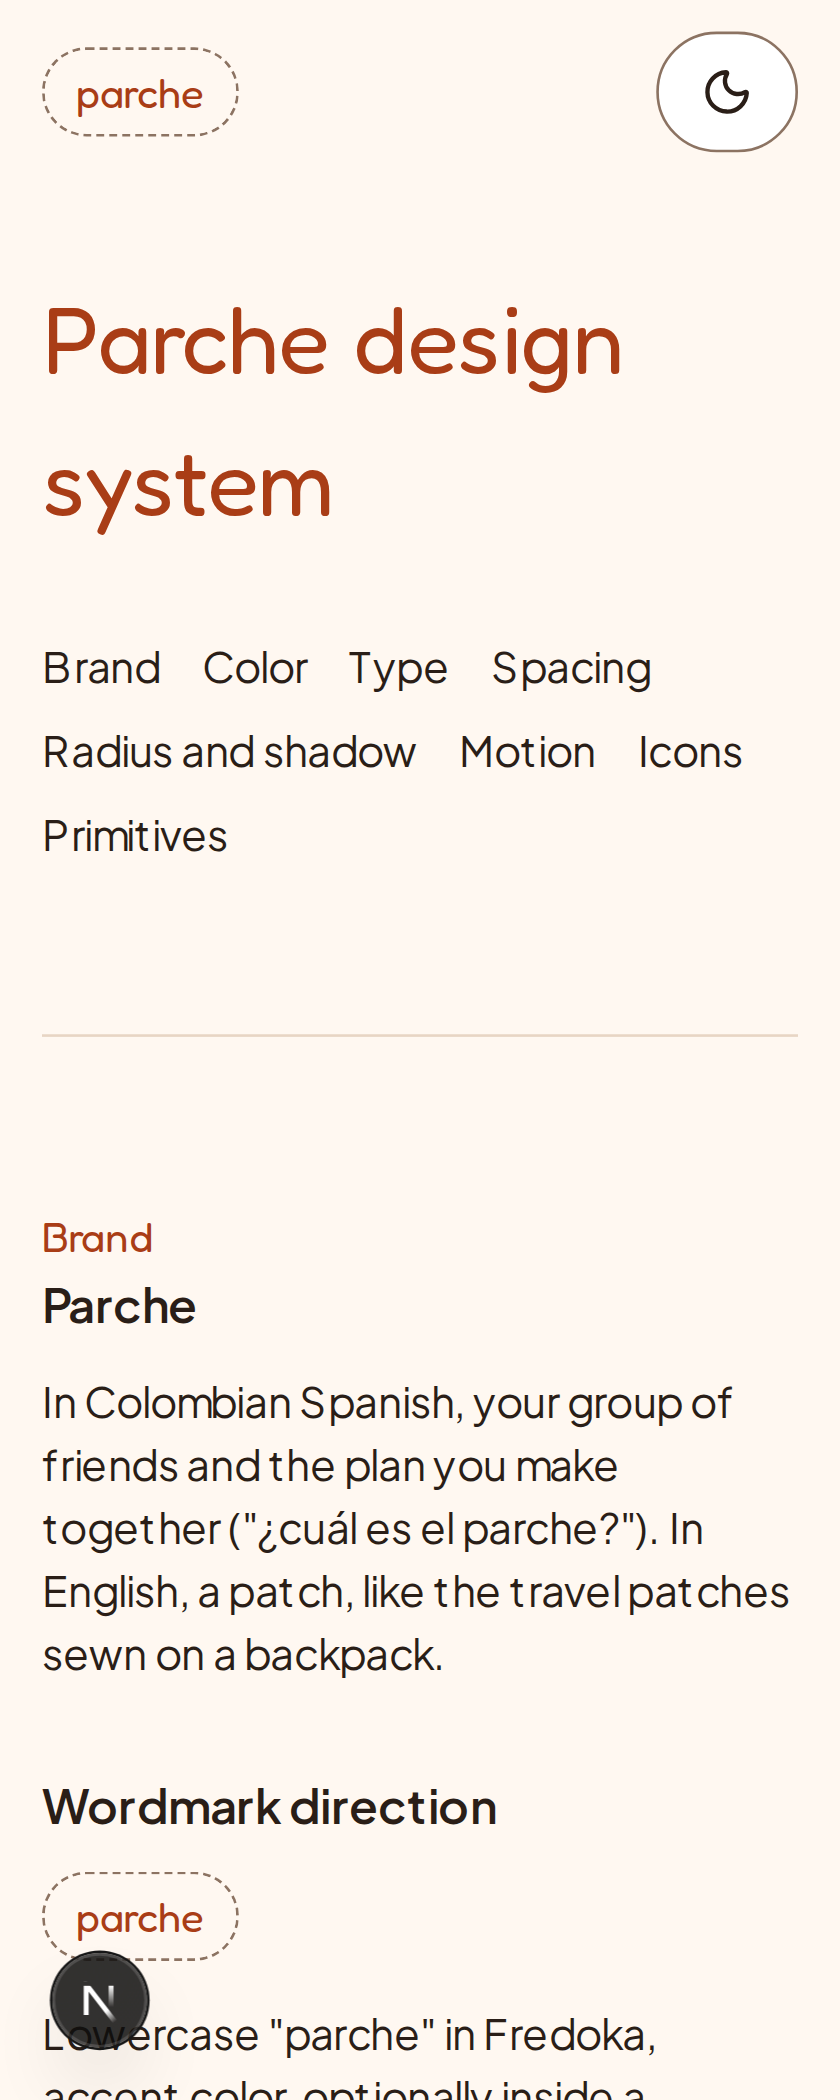
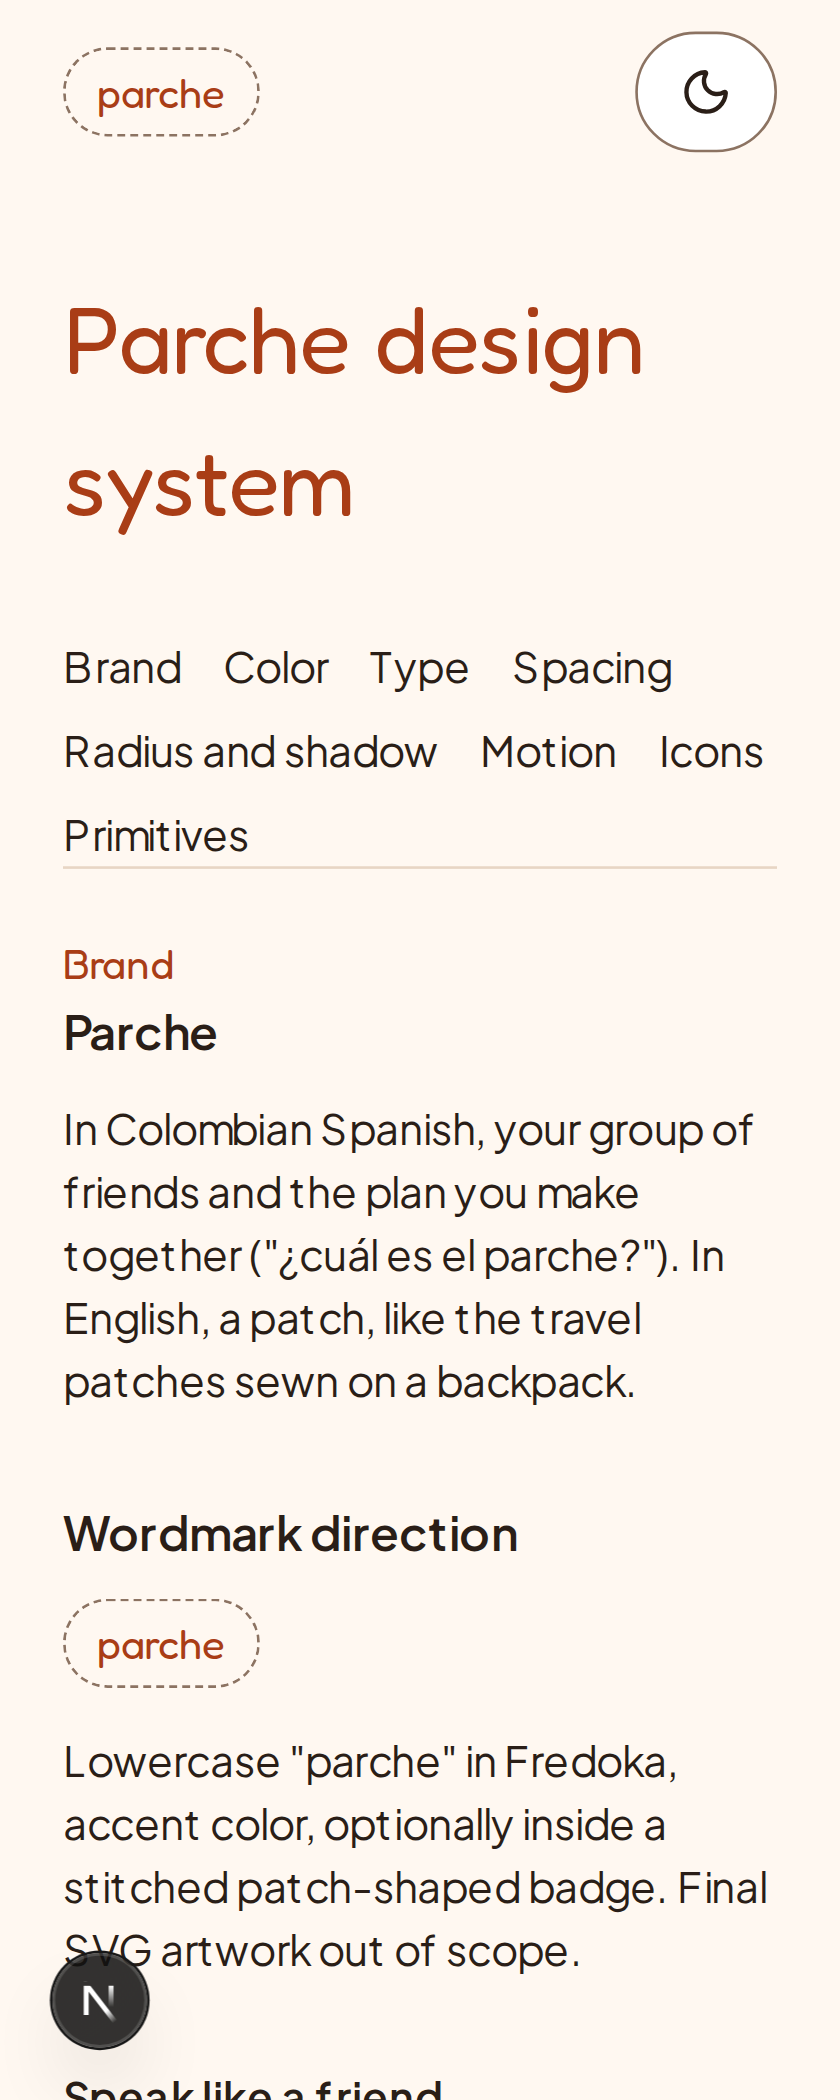
chore(design-system): re-capture visual gate evidence after padding fix
Refs #1

diff --git a/features/001-design-system/log.md b/features/001-design-system/log.md
@@ -346,3 +346,12 @@ User asked to drop the first section's `mt-16`/`pt-16` and instead
 match the nav's own top offset. styleguide-section.tsx:
 `first:mt-0 first:pt-6` (border-t kept). Verified e2e 34/34, lint
 clean.
+
+## 2026-09-26 post-gate: padding direction was backwards
+Round-3 fix wrapped header in `mx-auto max-w-page` to match main's
+centered container — user actually wanted the reverse: header's
+flush (no max-width) style applied everywhere, with more padding.
+Reverted centering on site-header.tsx, styleguide-screen.tsx and
+home page.tsx; all three now flush `px-6` (up from `px-4`), no
+`mx-auto`/`max-w-page`. Verified e2e 34/34, lint/typecheck clean.
+Re-captured evidence/gate/.
